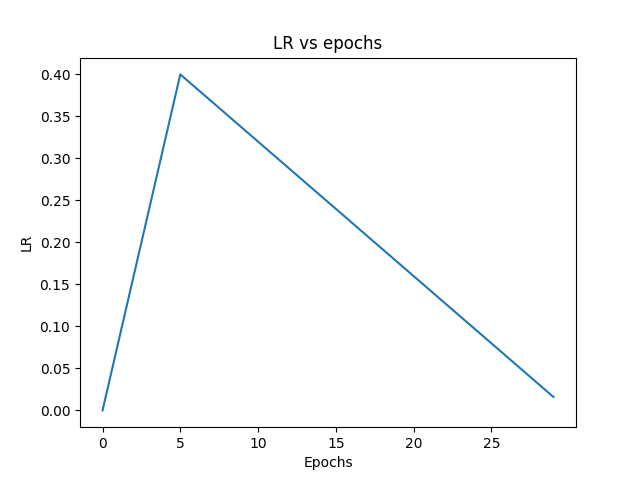
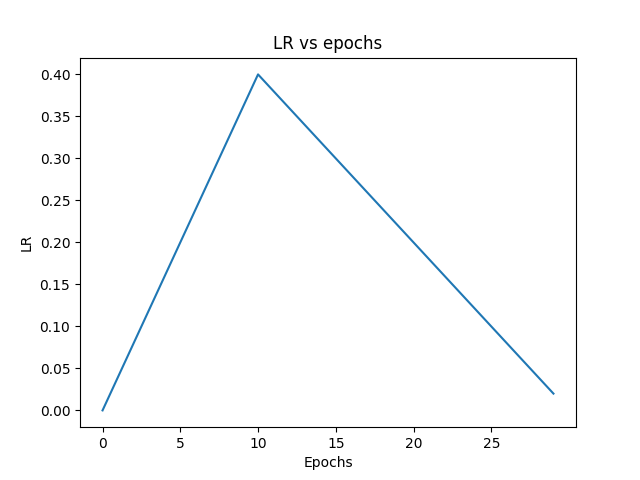
Added wandb integration

diff --git a/main.py b/main.py
@@ -16,8 +16,10 @@ from torch.utils.data.sampler import SubsetRandomSampler
 torch.set_default_tensor_type('torch.cuda.FloatTensor')
 torch.autograd.set_detect_anomaly(True)
 import matplotlib.pyplot as plt
+import matplotlib
 import numpy as np
-from sklearn.model_selection import train_test_split
+import wandb
+
 
 import pickle
 import datetime
@@ -39,6 +41,9 @@ def model_train(model, config, criterion, trainloader, testloader, validloader, 
     gpu = 'cuda:0'
     torch.cuda.set_device(gpu)
     lrs = list()
+    print(f"weight decay:\t{config['weight_decay']}")
+    print(f"momentum :\t{config['momentum']}")
+
     optimizer = optim.SGD(model.parameters(), lr=0.001, weight_decay=config['weight_decay'], momentum=config['momentum'])
     lr_scheduler = PiecewiseLinearLR(optimizer, milestones=config['milestones'], schedule=config['schedule'])
     save_model_str = './models/'
@@ -73,14 +78,21 @@ def model_train(model, config, criterion, trainloader, testloader, validloader, 
         if valid_acc >=94:
             success = True
             time_to_94 = train_meter.time
-            logging.info(f'Time to reach 94% {time_to_94}')    
+            logging.info(f'Time to reach 94% {time_to_94}')  
+            wandb.log({
+        "Test Accuracy":valid_acc,
+        "Test Loss": valid_obj,
+        "Train Accuracy":train_acc,
+        "Train Loss": train_obj})  
 
     a = datetime.datetime.now() - c
     test_acc, test_obj, time = infer(testloader, model, criterion, type='test', name=model_name)
     test_meter.update({'acc': test_acc, 'loss': test_obj}, time.total_seconds())
     torch.save(model.state_dict(), f'{save_model_str}/state')
+    wandb.save('model.h5')
     train_meter.plot(save_model_str)
-    # valid_meter.plot(save_model_str)
+    valid_meter.plot(save_model_str)
+
     plt.plot(lrs)
     plt.title('LR vs epochs')
     plt.xlabel('Epochs')
@@ -143,11 +155,12 @@ def main(config):
     (125.31, 122.95, 113.87), # equals np.mean(cifar10()['train']['data'], axis=(0,1,2)) 
     (62.99, 62.09, 66.70), # equals np.std(cifar10()['train']['data'], axis=(0,1,2))
     ]
-    
+
+    torch.manual_seed(config['seed'])  
     train_transform = [
         # transform.Pad(2),
         transforms.ToTensor(),
-        # transforms.Normalize(cifar10_mean, cifar10_std),
+        # transforms.Normalize((0.5, 0.5, 0.5), (0.5, 0.5, 0.5)),
         transform.TensorRandomCrop(32, 32),
         transform.TensorRandomHorizontalFlip(),
         transform.Cutout(8, 8)
@@ -166,13 +179,12 @@ def main(config):
                                             download=True)
     testset = torchvision.datasets.CIFAR10(root='./data', train=False,
                                         download=True)
-    print(trainset.data[0].shape)
- 
-    logging.info(f"Training size= {len(trainset)}")
 
-    trainloader = torch.utils.data.DataLoader(dataset=transform.Transform(trainset, train_transform),
-                                            batch_size=batch_size)       
-    
+    logging.info(f"Training size= {len(trainset)}")
+    trans_trainset = transform.Transform(trainset, train_transform)
+    trainloader = torch.utils.data.DataLoader(dataset=trans_trainset,
+                                            batch_size=batch_size, shuffle=False)       
+
     testloader = torch.utils.data.DataLoader(transform.Transform(testset, test_transform),
                                             batch_size=batch_size,
                                             shuffle=False)
@@ -182,7 +194,7 @@ def main(config):
 
     criterion = nn.CrossEntropyLoss(reduction='sum')
     criterion.cuda()
-    # logging.info("param size = %fMB", utils.count_parameters_in_MB(model))
+    logging.info("param size = %fMB", utils.count_parameters_in_MB(model))
     model_name = config['model']
     # steps_per_epoch = int(steps_per_epoch * 1.0)
     logging.info(f"Model:{model_name}")
@@ -200,7 +212,9 @@ def main(config):
     else:
         logging.error('incorrect model')
         sys.exit()
-
+    wandb.init(entity='wandb', project='resnet-dawnbench')
+    wandb.watch_called = False
+    wandb.watch(model, log="all")
     ret_dict = model_train(model, config, criterion, trainloader, testloader, testloader, model_name)
 
     file_name = "experiments.txt"
@@ -214,9 +228,10 @@ if __name__ == '__main__':
     config['batch_size'] = settings['batch_size']
     config['budget'] = settings['budget']
     config['model'] = settings['name']
-    config['weight_decay'] =  5e-4*config['batch_size']
-    config['momentum'] = 0.9
-    config['milestones'] = [0, 5, config['budget']]
+    config['weight_decay'] =  0 #5e-4*config['batch_size']
+    config['momentum'] = 0 #.9
+    config['milestones'] = [0, 4, config['budget']]
     config['schedule'] = [0, 0.4, 0]
     config['batch_norm'] = BatchNorm
-    main(config)    
+    config['seed'] = 42
+    main(config)

diff --git a/train.py b/train.py
@@ -1,11 +1,13 @@
 import logging
 import datetime
 from torch import nn
+import torchvision
 logging.basicConfig(level=logging.INFO)
 import torch
 from utils import AverageMeter, accuracy, plot_classes_preds
 torch.set_default_tensor_type('torch.cuda.FloatTensor')
 torch.autograd.set_detect_anomaly(True)
+# import sys
 
 def train(trainloader, model, criterion, optimizer, name):
     if name == 'skeleton':
@@ -25,6 +27,8 @@ def train_self(trainloader, model, criterion, optimizer):
         # zero the parameter gradients
         # print(input.shape)
         optimizer.zero_grad()
+        # torchvision.utils.save_image(input, f'input_{step}.png')
+        # sys.exit()
         input = input.cuda()
         target = target.cuda(non_blocking=True)
         # input.to(dtype=torch.half)

diff --git a/settings.py b/settings.py
@@ -6,7 +6,7 @@ main_args=dict()
 main_args['batch_size'] = 32
 main_args['budget'] = 30
 main_args['split'] = 1
-main_args['name'] = 'self-vanilla' #'skeleton'#'self-vanilla'
+main_args['name'] = 'self-david' #'skeleton'#'self-vanilla'
 
 def get_dict():
     return main_args
